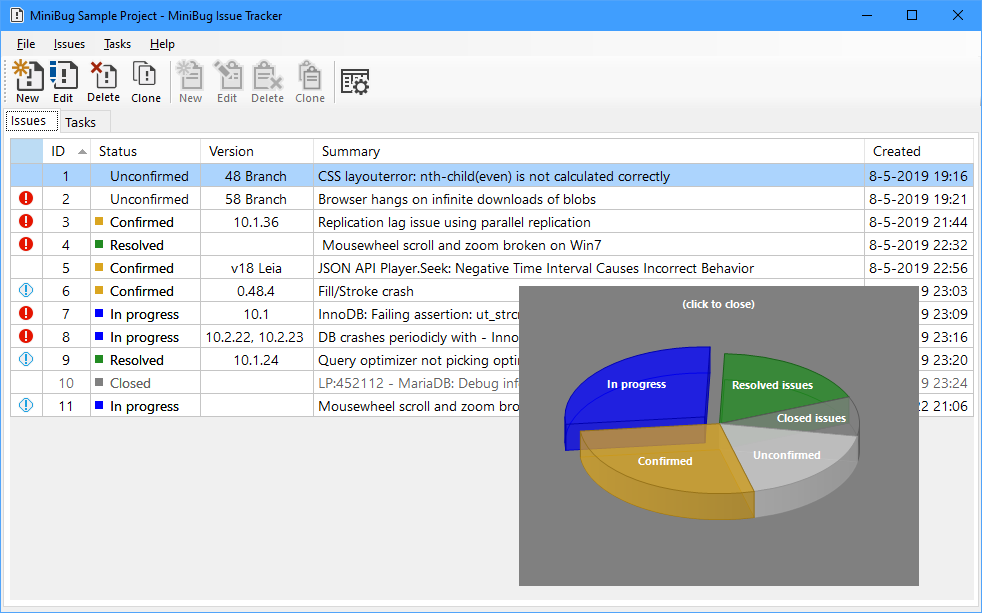
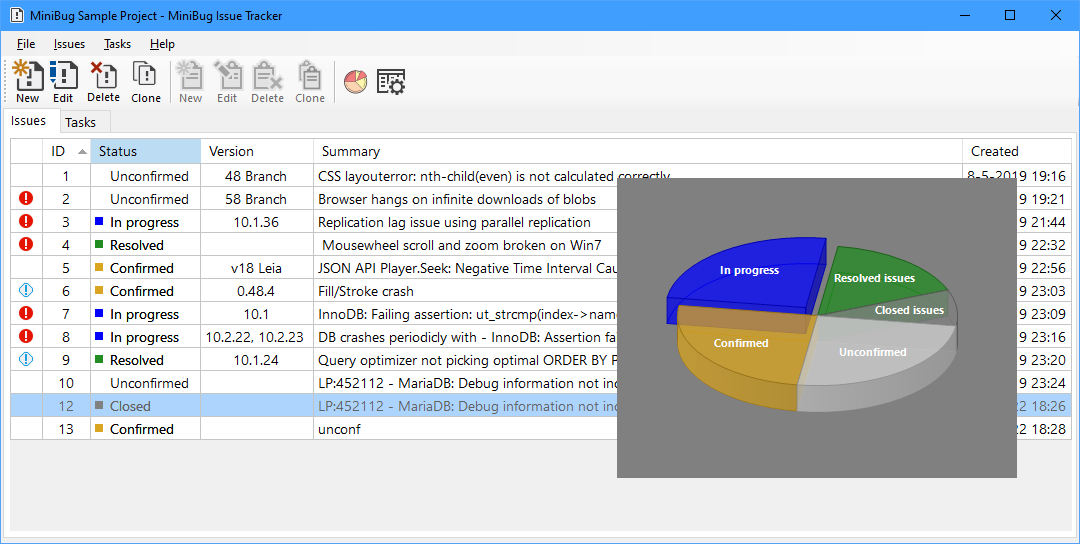
Anchor Pie chart bottom right

diff --git a/MiniBug/MainForm.cs b/MiniBug/MainForm.cs
@@ -1351,11 +1351,11 @@ namespace MiniBug
             if (GridIssues.SelectedRows.Count == 1)
             {
                 // Get the key of the issue in the selected row 
-                int id = Int32.Parse(GridIssues.SelectedRows[0].Cells["id"].Value.ToString());
+                int id = int.Parse(GridIssues.SelectedRows[0].Cells["id"].Value.ToString());
 
                 // Update the counters for the Pie chart
                 var status = Program.SoftwareProject.Issues[id].Status;
-                PiechartCountersAdd(status, -1);
+                PiechartCountersAdd(status);
 
                 Issue newIssue = new Issue();
                 Program.SoftwareProject.Issues[id].Clone(ref newIssue);
@@ -2338,14 +2338,13 @@ namespace MiniBug
         /// </summary>
         private void IconPieChart_Click(object sender, EventArgs e)
         {
-            if (!modernPieChart1.Visible)
+            if (modernPieChart1.Visible)
             {
-                // Recalculate issue statusses
-                ShowPieChart();
+                modernPieChart1.Visible = false;
             }
             else
             {
-                modernPieChart1.Visible = false;
+                ShowPieChart();
             }
         }
     }

diff --git a/MiniBug/MainForm.Designer.cs b/MiniBug/MainForm.Designer.cs
@@ -130,7 +130,7 @@
             // 
             // modernPieChart1
             // 
-            this.modernPieChart1.Anchor = ((System.Windows.Forms.AnchorStyles)((System.Windows.Forms.AnchorStyles.Top | System.Windows.Forms.AnchorStyles.Right)));
+            this.modernPieChart1.Anchor = ((System.Windows.Forms.AnchorStyles)((System.Windows.Forms.AnchorStyles.Bottom | System.Windows.Forms.AnchorStyles.Right)));
             this.modernPieChart1.BackColor = System.Drawing.Color.Gray;
             this.modernPieChart1.DisplayDoughnut = false;
             this.modernPieChart1.DoughnutWidth = 100F;
